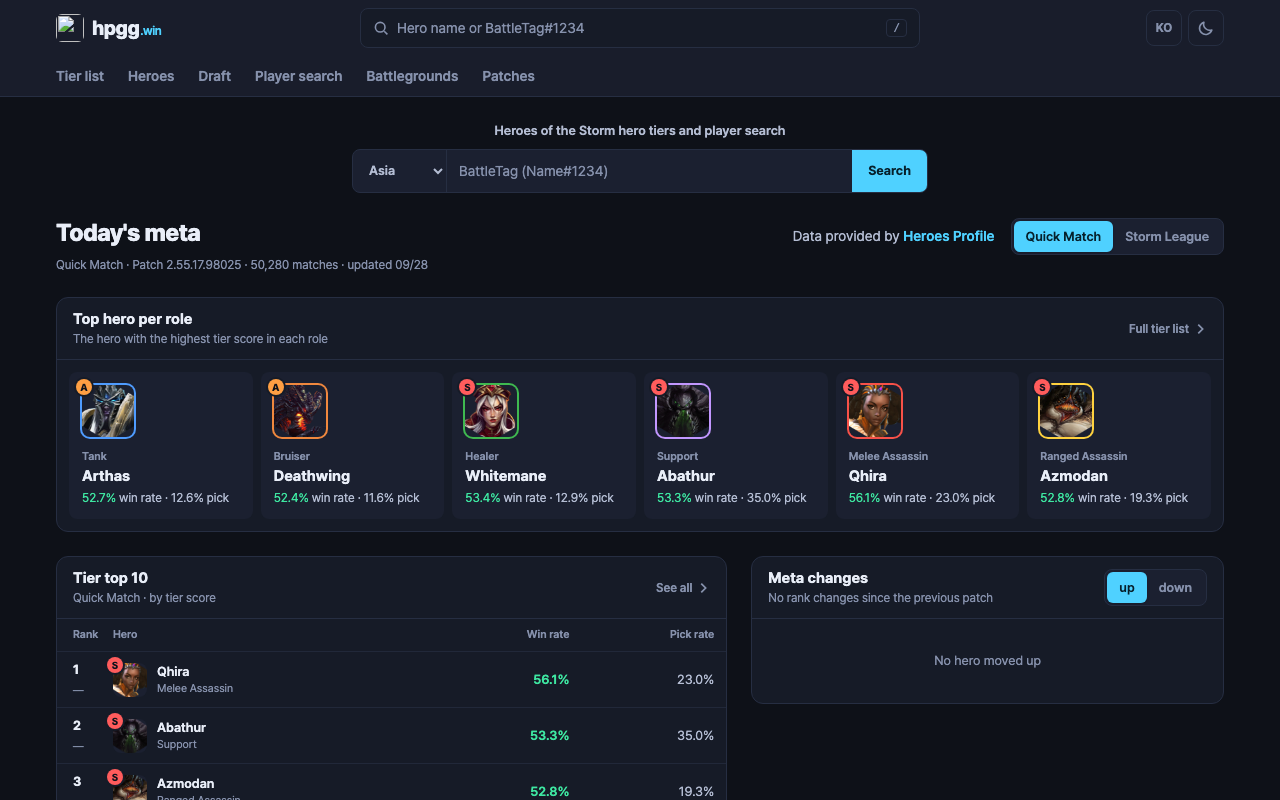
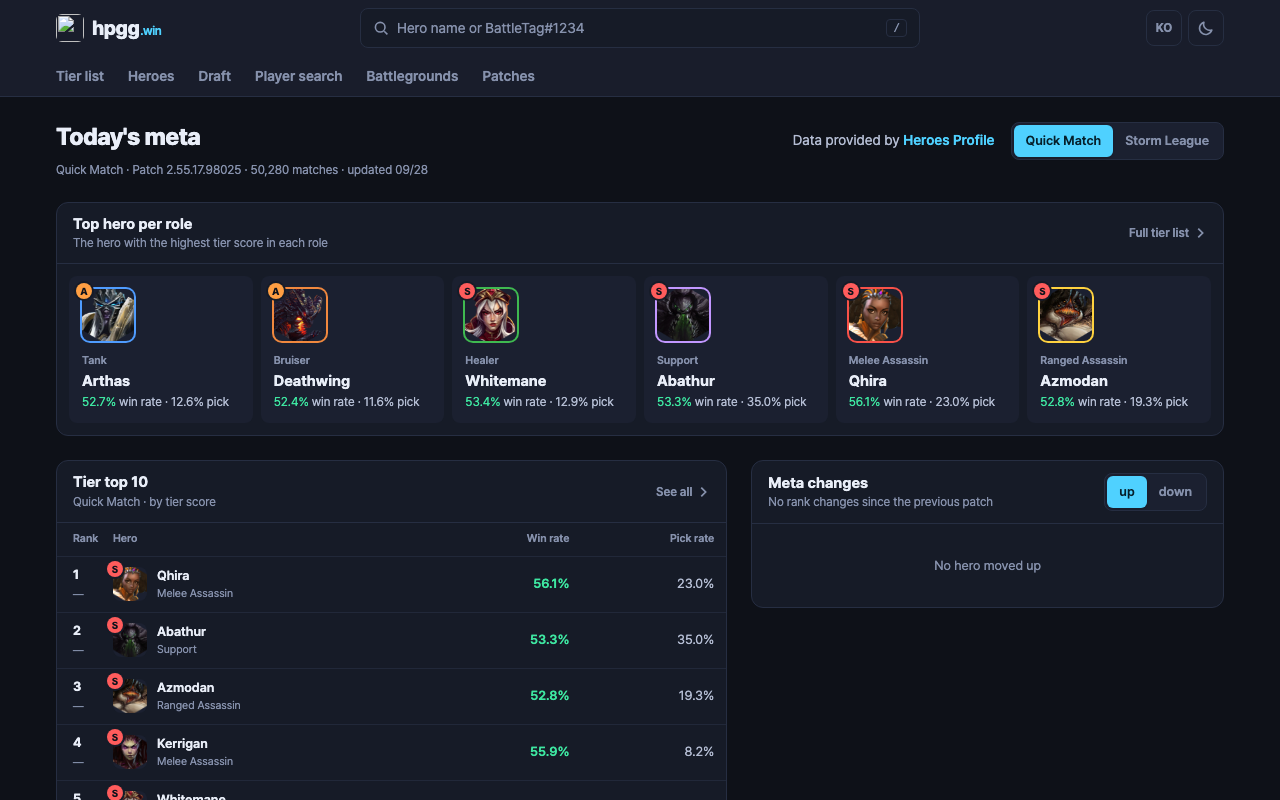
feat(home): 홈 상단 한 줄 소개 제거 — 오늘의 메타로 바로 시작 (오너 10-30)
- 헤더 검색 안내 문구가 사이트 용도를 대신 말한다
- #30 의 소개 줄 테스트를 '소개 줄 없음, 제목이 헤더 바로 아래'로 바꿈
- 안 쓰는 home.tagline 문구 삭제

diff --git a/web/e2e/home.spec.ts b/web/e2e/home.spec.ts
@@ -22,7 +22,7 @@ test("home: role leaders, top 10, movers, map cards and the mode toggle", async 
   await expect(page.locator('#role-top [data-card="role"]').first()).toHaveAttribute("href", /\?mode=sl$/);
 });
 
-test("home: one search on the page — the header's, which takes BattleTags; today's meta right under the tagline", async ({ page }) => {
+test("home: one search on the page — the header's, which takes BattleTags; today's meta right under the header", async ({ page }) => {
   // owner 2026-10-30: with the header's unified search (B안), 홈's own player-search box was a second copy
   await page.goto("./");
   await expect(page.locator("#hero-search")).toHaveCount(0);
@@ -89,12 +89,11 @@ test("footer links go only to the site, the contact address and the data source 
   }
 });
 
-test("홈 says what the site is in one short line, above today's meta (#30)", async ({ page }) => {
+test("홈 opens straight on today's meta: no tagline line above it (owner 2026-10-30, replacing #30's line)", async ({ page }) => {
+  // the header's search placeholder ("영웅 이름 또는 배틀태그#1234") now says what the site is for
   await page.goto("./");
-  const line = page.locator("#site-tagline");
-  await expect(line).toHaveText("히어로즈 오브 더 스톰 영웅 티어와 전적 검색");
-  const box = (await line.boundingBox())!;
-  expect(box.y + box.height).toBeLessThanOrEqual((await page.locator("#meta-line").boundingBox())!.y); // above it, not over it
-  await page.goto("/en/hots/");
-  await expect(page.locator("#site-tagline")).toHaveText("Heroes of the Storm hero tiers and player search");
+  await expect(page.locator("#site-tagline")).toHaveCount(0);
+  const header = (await page.locator("header").first().boundingBox())!;
+  const title = (await page.locator("h1").first().boundingBox())!;
+  expect(title.y - (header.y + header.height)).toBeLessThan(48); // the page title sits right under the header
 });

diff --git a/web/src/components/home/HomeView.tsx b/web/src/components/home/HomeView.tsx
@@ -28,10 +28,6 @@ export function HomeView({ models, maps }: { models: Record<Mode, HomeModel>; ma
   return (
     <>
       <main className="page-x mt-6 space-y-6">
-        {/* what the site is, for a first visit (#30). The player search is the header's (owner 2026-10-30). */}
-        <p id="site-tagline" className="text-center text-[13px] font-semibold text-fg-2">
-          {t.home.tagline}
-        </p>
         <PageHead
           title={t.home.title}
           aside={

diff --git a/web/src/i18n/ko.ts b/web/src/i18n/ko.ts
@@ -130,7 +130,6 @@ export const ko = {
   },
   home: {
     title: "오늘의 메타",
-    tagline: "히어로즈 오브 더 스톰 영웅 티어와 전적 검색",
     leaders: "역할별 1위",
     leadersSub: "역할마다 티어 점수가 가장 높은 영웅",
     fullTier: "전체 티어표",

diff --git a/web/src/i18n/en.ts b/web/src/i18n/en.ts
@@ -126,7 +126,6 @@ export const en: Messages = {
   },
   home: {
     title: "Today's meta",
-    tagline: "Heroes of the Storm hero tiers and player search",
     leaders: "Top hero per role",
     leadersSub: "The hero with the highest tier score in each role",
     fullTier: "Full tier list",
